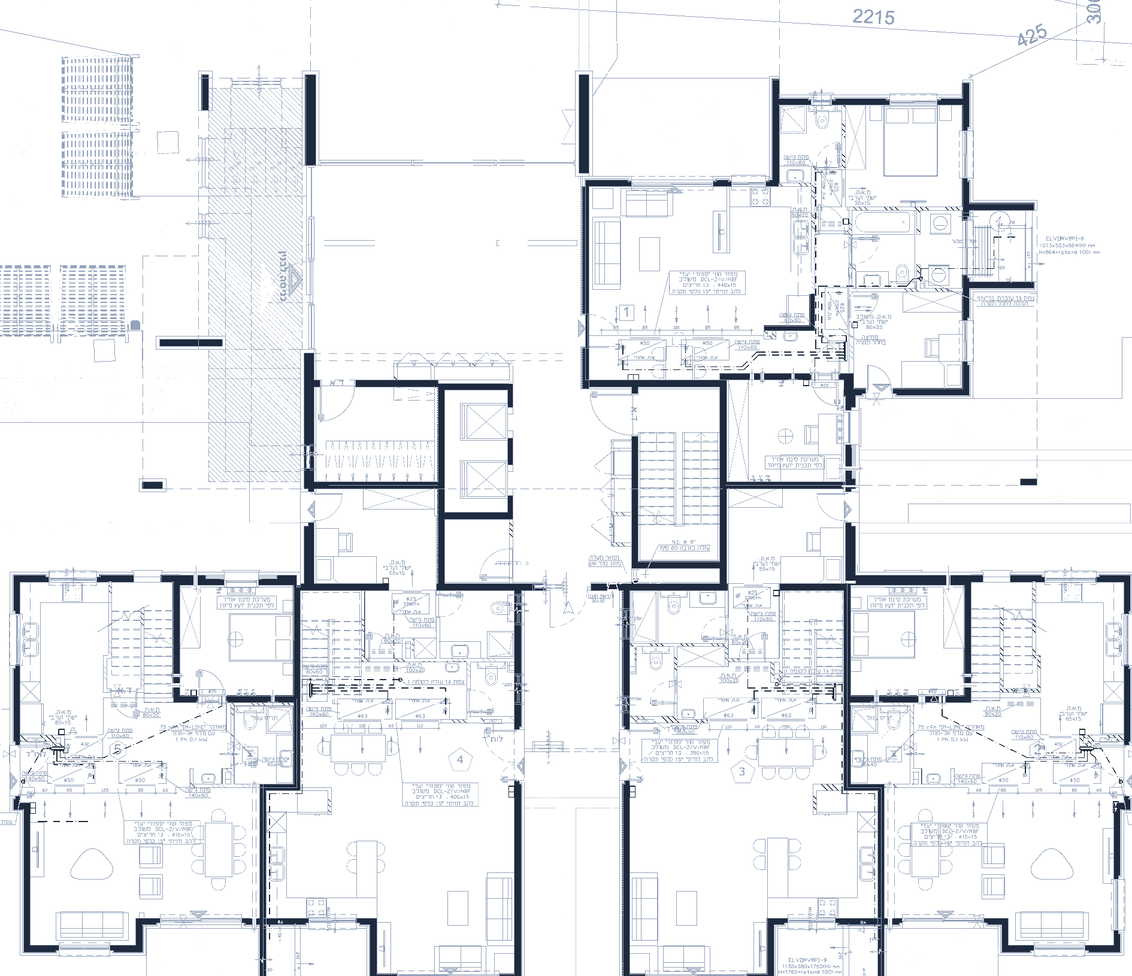
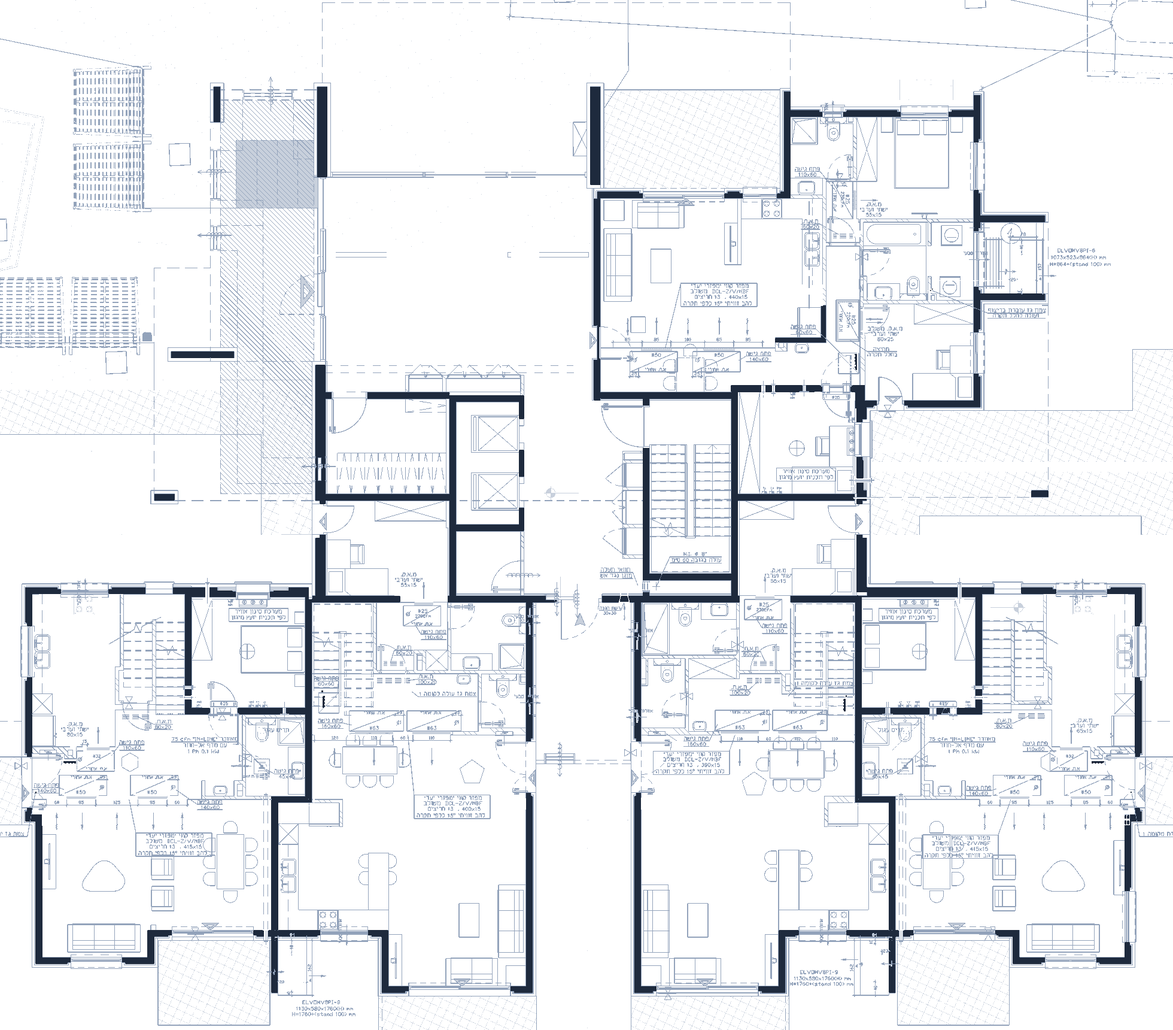
Netiv building view: Building 1 mirrored, its public building, floors 1 and 10 traced
Owner, 2026-11-17: "perfect the building view based on this". Read off both
buildings' AC-engineer sheets: Building 1 is Building 2 mirrored on every
floor (each B1 sheet, flipped, lies on B2's with one offset), flat numbers
included, and its unit 1 on the ground is the public building, not a flat.

- NETIV_PLAN_B1: the traced frame mirrored, then turned; drawing.mirror;
  a plan per tower in the side-by-side view and a clip id per tower.
- Building 1's ground has its own picture with the public building drawn
  off its own sheet.
- Floor 1 (the duplexes' upper storeys) and floor 10 (35 the whole top,
  36 the bottom) are traced off their sheets; nothing is estimated now.
- Every picture regenerated without lettering, on one wider frame, so
  nothing reads upside down or backwards after the turn.

Claude-Session: https://claude.ai/code/session_01VowSFszFfkyoyykZYXnGyw

diff --git a/src/components/building/netivPlan.ts b/src/components/building/netivPlan.ts
@@ -1,144 +1,172 @@
 /**
- * NETIV (Or Amiad), traced off the AC engineer's sheets for BUILDING 2 (A.F. Air Conditioning, "בניין 2", the Drive
- * folder the owner handed over 2026-11-08: Floor 0 · Floor 2-7 · Floor 7 · Floor 8). The same method as Wolfson's:
- * every outline read off the sheet on a 50-point grid and checked by laying it back over the drawing (the cyan walls).
+ * NETIV (Or Amiad), traced off the AC engineer's sheets (A.F. Air Conditioning; the Drive folder "PDF מקבלן",
+ * "בנין 1" and "בנין 2": Floor 0 · 1 · 2-7 · 7 · 8 · 9). The same method as Wolfson's: every outline read off the
+ * sheet on a measured grid and checked by laying it back over the drawing.
  *
- * Units: half a sheet point on the typical floor's sheet (the ground sheet is drawn shifted and lands on it by its
- * lifts). The architect's floors run one under the app's above the ground: their "Floor 2-7" is the app's 3–8, their
- * 7 the app's 8 (apartments 28–31), their 8 the app's 9 (32–34).
+ * Units: one unit is two sheet points on the typical floor's sheet (the ground sheet is drawn shifted and lands on
+ * it by its lifts). The architect's floors run one under the app's above the ground: their "Floor 2-7" is the app's
+ * 3–8, their 7 the app's 8 (apartments 28–31), their 8 the app's 9 (32–34), their 9 the app's 10 (35 · 36).
  *
- * Floor by floor (the app's numbering):
+ * Floor by floor (the app's numbering), as Building 2's sheets draw it:
  *   0  apartment 1 (top right) · the entrance lobby (top left) · the four garden duplexes 5 · 4 | walk | 3 · 2 below
- *   1  apartments 6 · 7 and the duplexes' upper storeys — NO PLAN YET: drawn from the floors round it (estimated)
+ *   1  apartments 6 · 7 on top and the duplexes' upper storeys below (traced 2026-11-17 off "Floor 1")
  *   3–8  four flats round the core, numbered clockwise from the top left (8 9 10 11 · 12 13 14 15 · …)
  *   9  32 (top left) · 33 (top right) · 34 the whole bottom with its open roof terrace
- *   10 35 · 36 — NO PLAN YET: drawn as the top two flats (estimated)
- * Building 1 is the same building as Building 2 (owner, 2026-11-08: "Building one and two plans are exactly the same"), so one plan draws both.
+ *   10 35 the whole top (bedrooms left and right of the living room) · 36 the bottom (traced 2026-11-17 off "Floor 9")
+ *
+ * THE TWO BUILDINGS ARE MIRROR IMAGES (found 2026-11-17, when the owner asked which building has something else
+ * where the app drew a flat): every sheet of Building 1, flipped left to right, lies on Building 2's sheet with the
+ * same offset on all five floors (x₁ = 3266 − x₂ in sheet points), flat numbers and all — 13 is top left in
+ * Building 1 where 12 is in Building 2. One difference: Building 1's unit 1, on the ground, is not a flat but the
+ * PUBLIC BUILDING (מבנה ציבור, about 100 m², its own fan-coil), on the footprint apartment 1 has in Building 2.
+ * So everything is traced once, in Building 2's frame, and Building 1's plan is that, mirrored.
+ *
+ * TURNED 180° ON SCREEN (owner, 2026-11-17: "flip the buildings 180 degrees so that apartment 13 and 12 go on the
+ * bottom and apartment 14 and 15 go on the top", and his sketch of the ground floor: apartment 1 bottom left, the
+ * duplexes 2 · 3 · 4 · 5 along the top, the street below). The sheets' pictures are mirrored and turned with the
+ * outlines (`drawing.mirror`, `drawing.rotate`), so the walls still lie on them. The pictures carry no lettering
+ * (it was taken out of the sheets), so nothing reads upside down or backwards.
  */
 import type { Apartment } from '../../types';
 import type { BuildingPlan, CardSpot, FloorSpec, Pt } from './buildingPlan';
 
+type Rect = [number, number, number, number];
+
+// ── as traced, in Building 2's frame ────────────────────────────────────────────────────────────────────────
 const TL: Pt[] = [[500, 268], [600, 268], [600, 356], [827, 356], [827, 525], [705, 525], [705, 615], [595, 615], [595, 490], [458, 490], [458, 425], [500, 425]];
 const TR: Pt[] = [[827, 356], [1000, 356], [1000, 270], [1140, 270], [1140, 395], [1185, 395], [1185, 440], [1140, 440], [1140, 535], [1050, 535], [1050, 615], [945, 615], [945, 525], [827, 525]];
 const BL: Pt[] = [[455, 695], [595, 695], [595, 615], [705, 615], [705, 695], [817, 695], [817, 880], [650, 880], [650, 995], [455, 995], [455, 845], [435, 845], [435, 775], [455, 775]];
 const BR: Pt[] = [[817, 695], [945, 695], [945, 615], [1050, 615], [1050, 695], [1180, 695], [1180, 775], [1200, 775], [1200, 845], [1180, 845], [1180, 995], [985, 995], [985, 880], [817, 880]];
 const P34: Pt[] = [[455, 695], [595, 695], [595, 615], [705, 615], [705, 695], [945, 695], [945, 615], [1050, 615], [1050, 880], [650, 880], [650, 995], [455, 995], [455, 845], [435, 845], [435, 775], [455, 775]];
+/** The app's floor 10: 35 runs along the whole top, with a bedroom wing each side of the core's top. */
+const P35: Pt[] = [[500, 268], [600, 268], [600, 358], [1053, 358], [1053, 697], [945, 697], [945, 525], [705, 525], [705, 615], [595, 615], [595, 490], [458, 490], [458, 425], [500, 425]];
+const P36: Pt[] = [[455, 695], [595, 695], [595, 615], [705, 615], [705, 695], [950, 695], [950, 880], [650, 880], [650, 995], [455, 995], [455, 845], [435, 845], [435, 775], [455, 775]];
 const G1: Pt[] = [[820, 340], [970, 340], [970, 270], [1135, 270], [1135, 370], [1190, 370], [1190, 455], [1135, 455], [1135, 520], [1045, 520], [1045, 600], [930, 600], [930, 505], [820, 505]];
+/** Building 1's unit 1 — the public building, off Building 1's own ground sheet (flipped into this frame). */
+const PUB: Pt[] = [[817, 338], [968, 338], [968, 253], [1147, 253], [1147, 520], [1043, 520], [1043, 600], [930, 600], [930, 507], [817, 507]];
 const D5: Pt[] = [[342, 670], [575, 670], [575, 950], [342, 950]];
 const D4: Pt[] = [[575, 655], [765, 655], [765, 990], [575, 990]];
 const D3: Pt[] = [[850, 655], [1045, 655], [1045, 990], [850, 990]];
 const D2: Pt[] = [[1045, 670], [1265, 670], [1265, 950], [1045, 950]];
+/** The duplexes' upper storeys, off the "Floor 1" sheet: wider than the ground ones, with a shaft between 4 and 3. */
+const U5: Pt[] = [[351, 689], [588, 689], [588, 979], [459, 979], [459, 1002], [360, 1002], [360, 880], [351, 880]];
+const U4: Pt[] = [[588, 696], [817, 696], [817, 772], [772, 772], [772, 979], [588, 979]];
+const U3: Pt[] = [[820, 696], [1049, 696], [1049, 979], [865, 979], [865, 772], [820, 772]];
+const U2: Pt[] = [[1049, 689], [1284, 689], [1284, 880], [1275, 880], [1275, 1002], [1176, 1002], [1176, 979], [1049, 979]];
 
 const SHAPES: Record<string, Pt[]> = {
   TL, TR, BL, BR,                      // the typical floor
   TL8: TL, TR8: TR, P34,               // the app's floor 9
-  TL10: TL, TR10: TR,                  // the app's floor 10 (estimated)
-  G1, D5, D4, D3, D2,                  // the ground
-  F6: TL, F7: TR, U5: D5, U4: D4, U3: D3, U2: D2, // the app's floor 1 (estimated)
+  P35, P36,                            // the app's floor 10
+  G1, PUB, D5, D4, D3, D2,             // the ground (G1 in Building 2, PUB in Building 1)
+  F6: TL, F7: TR, U5, U4, U3, U2,      // the app's floor 1
 };
 const SUN_TL: Pt[][] = [[[600, 200], [827, 200], [827, 356], [600, 356]], [[455, 495], [595, 495], [595, 600], [455, 600]]];
 const SUN_TR: Pt[][] = [[[827, 200], [995, 200], [995, 356], [827, 356]], [[1050, 535], [1145, 535], [1145, 600], [1050, 600]]];
 const TERRACES: Record<string, Pt[][]> = {
-  TL: SUN_TL, TR: SUN_TR, TL10: SUN_TL, TR10: SUN_TR, F6: SUN_TL, F7: SUN_TR,
+  TL: SUN_TL, TR: SUN_TR, F6: SUN_TL, F7: SUN_TR,
   BL: [[[650, 880], [817, 880], [817, 1002], [650, 1002]]],
   BR: [[[817, 880], [985, 880], [985, 1002], [817, 1002]]],
-  // the top floor's sun terraces are shorter (its sheet), the side ones the same
+  // the top floors' sun terraces are shorter (their sheets), the side ones the same
   TL8: [[[600, 270], [827, 270], [827, 356], [600, 356]], SUN_TL[1]],
   TR8: [[[827, 270], [995, 270], [995, 356], [827, 356]], SUN_TR[1]],
   P34: [[[1050, 695], [1198, 695], [1198, 995], [650, 995], [650, 880], [1050, 880]]],
+  P35: [[[1053, 272], [1140, 272], [1140, 395], [1185, 395], [1185, 440], [1140, 440], [1140, 535], [1053, 535]], [[600, 305], [1053, 305], [1053, 358], [600, 358]], SUN_TL[1]],
+  P36: [[[950, 697], [1050, 697], [1050, 880], [950, 880]]],
+  U4: [[[650, 979], [777, 979], [777, 1030], [650, 1030]]],
+  U3: [[[860, 979], [988, 979], [988, 1030], [860, 1030]]],
 };
 const LABEL: Record<string, Pt> = {
-  TL: [715, 440], TR: [915, 440], BL: [730, 795], BR: [905, 795], P34: [850, 790],
-  G1: [910, 430], D5: [458, 810], D4: [670, 820], D3: [948, 820], D2: [1155, 810],
+  TL: [715, 440], TR: [915, 440], BL: [730, 795], BR: [905, 795], P34: [850, 790], P35: [830, 445], P36: [800, 790],
+  G1: [910, 430], PUB: [985, 420], D5: [458, 810], D4: [670, 820], D3: [948, 820], D2: [1155, 810],
+  U5: [470, 840], U4: [680, 850], U3: [957, 850], U2: [1165, 840],
 };
-for (const [k, s] of [['TL8', 'TL'], ['TR8', 'TR'], ['TL10', 'TL'], ['TR10', 'TR'], ['F6', 'TL'], ['F7', 'TR'],
-  ['U5', 'D5'], ['U4', 'D4'], ['U3', 'D3'], ['U2', 'D2']] as const) LABEL[k] = LABEL[s];
+for (const [k, s] of [['TL8', 'TL'], ['TR8', 'TR'], ['F6', 'TL'], ['F7', 'TR']] as const) LABEL[k] = LABEL[s];
 
 const SPOT: Record<string, CardSpot> = {
-  TL: 'tl', TR: 'tr', BR: 'br', BL: 'bl', TL8: 'tl', TR8: 'tr', P34: 'bl', TL10: 'tl', TR10: 'tr',
-  G1: 'tr', D5: 'bl', D4: 'ml', D3: 'mr', D2: 'br', F6: 'tl', F7: 'tr', U5: 'bl', U4: 'ml', U3: 'mr', U2: 'br',
+  TL: 'tl', TR: 'tr', BR: 'br', BL: 'bl', TL8: 'tl', TR8: 'tr', P34: 'bl', P35: 'tr', P36: 'bl',
+  G1: 'tr', PUB: 'tr', D5: 'bl', D4: 'ml', D3: 'mr', D2: 'br', F6: 'tl', F7: 'tr', U5: 'bl', U4: 'ml', U3: 'mr', U2: 'br',
 };
 
 const CORE: Pt[] = [[705, 525], [945, 525], [945, 695], [705, 695]];
 const CORE_G: Pt[] = [[585, 252], [820, 252], [820, 505], [930, 505], [930, 655], [585, 655]];
-const STAIRS: [number, number, number, number][] = [[862, 555, 55, 110]];
-const LIFTS: [number, number, number, number][] = [[712, 530, 36, 36], [712, 570, 36, 36]];
-const STAIRS_G: [number, number, number, number][] = [[842, 512, 86, 138]];
-const LIFTS_G: [number, number, number, number][] = [[697, 512, 34, 48], [697, 565, 34, 48]];
-const BOX = { x: 330, y: 190, w: 945, h: 815 };
+const STAIRS: Rect[] = [[862, 555, 55, 110]];
+const LIFTS: Rect[] = [[712, 530, 36, 36], [712, 570, 36, 36]];
+const STAIRS_G: Rect[] = [[842, 512, 86, 138]];
+const LIFTS_G: Rect[] = [[697, 512, 34, 48], [697, 565, 34, 48]];
+/** Wide enough for floor 1, whose duplexes reach further out and down than any other floor. */
+const BOX = { x: 320, y: 180, w: 980, h: 860 };
 const FLOOR_NO: Pt = [825, 612];
 const FLOOR_NO_G: Pt = [702, 380];
 
-/**
- * TURNED 180° ON SCREEN (owner, 2026-11-17: "flip the buildings 180 degrees so that apartment 13 and 12 go on the
- * bottom and apartment 14 and 15 go on the top", and his sketch of the ground floor: apartment 1 bottom left, the
- * garden duplexes 2 · 3 · 4 · 5 along the top, the street below). Everything above stays as traced off the sheets;
- * this turns every outline, label, core and card corner about the drawing's centre, and the sheets' own pictures
- * are turned with them (`drawing.rotate`), so the walls still lie on the outlines.
- */
-const CX = BOX.x + BOX.w / 2, CY = BOX.y + BOX.h / 2;
-const turn = ([x, y]: Pt): Pt => [2 * CX - x, 2 * CY - y];
-const turnAll = (pts: Pt[]): Pt[] => pts.map(turn);
-const turnRect = ([x, y, w, h]: [number, number, number, number]): [number, number, number, number] =>
-  [2 * CX - x - w, 2 * CY - y - h, w, h];
-const mapValues = <T, U>(o: Record<string, T>, f: (v: T) => U): Record<string, U> =>
-  Object.fromEntries(Object.entries(o).map(([k, v]) => [k, f(v)]));
-const OPPOSITE: Record<CardSpot, CardSpot> = { tl: 'br', tr: 'bl', bl: 'tr', br: 'tl', ml: 'mr', mr: 'ml' };
-
-const T_SHAPES = mapValues(SHAPES, turnAll);
-const T_TERRACES = mapValues(TERRACES, list => list.map(turnAll));
-const T_LABEL = mapValues(LABEL, turn);
-const T_SPOT = mapValues(SPOT, s => OPPOSITE[s]);
-const T_CORE = turnAll(CORE), T_CORE_G = turnAll(CORE_G);
-const T_STAIRS = STAIRS.map(turnRect), T_LIFTS = LIFTS.map(turnRect);
-const T_STAIRS_G = STAIRS_G.map(turnRect), T_LIFTS_G = LIFTS_G.map(turnRect);
-const T_FLOOR_NO = turn(FLOOR_NO), T_FLOOR_NO_G = turn(FLOOR_NO_G);
-const sheet = (src: string) => ({ src, box: BOX, clip: true, rotate: true });
-
-/** The typical floor's four flats, clockwise from the top left. */
+/** The typical floor's four flats, clockwise from the top left (Building 2's frame). */
 const RING = ['TL', 'TR', 'BR', 'BL'] as const;
 
 function num(apt: Apartment): number { return Number((apt.apartmentNumber ?? '').trim()); }
 
-export const NETIV_PLAN: BuildingPlan = {
-  id: 'netiv',
-  box: BOX,
-  shapes: T_SHAPES,
-  terraces: T_TERRACES,
-  labelAt: T_LABEL,
-  cardSpot: T_SPOT,
-  /** By the apartment's NUMBER, as the sheets number them — whatever row or column the board gives it. */
-  shapesOf(apt, rowFloor) {
-    const n = num(apt);
-    if (n === 1) return ['G1'];
-    if (n >= 2 && n <= 5) return [rowFloor < apt.floor ? `D${n}` : `U${n}`];
-    if (n === 6) return ['F6'];
-    if (n === 7) return ['F7'];
-    if (n >= 8 && n <= 31) return [RING[(n - 8) % 4]];
-    if (n === 32) return ['TL8'];
-    if (n === 33) return ['TR8'];
-    if (n === 34) return ['P34'];
-    if (n === 35) return ['TL10'];
-    if (n === 36) return ['TR10'];
-    return [RING[Math.max(0, Math.min(3, (apt.colPosition ?? 1) - 1))]];
-  },
-  /** A garden duplex stands on the ground AND the storey above: its record is on the upper one, it is drawn on both. */
-  alsoOn(apt) {
-    const n = num(apt);
-    return n >= 2 && n <= 5 ? [apt.floor - 1] : [];
-  },
-  floorOf(row): FloorSpec {
-    const has = (re: RegExp) => row.keys.some(k => re.test(k));
-    const base = { core: T_CORE, stairs: T_STAIRS, lifts: T_LIFTS, floorNoAt: T_FLOOR_NO };
-    if (has(/^(G1|D\d)$/) && !has(/^(F\d|U\d)$/)) {
-      return { core: T_CORE_G, stairs: T_STAIRS_G, lifts: T_LIFTS_G, floorNoAt: T_FLOOR_NO_G,
-        slab: ['G1', 'D5', 'D4', 'D3', 'D2'], drawing: sheet('/building/netiv-ground.png') };
-    }
-    if (has(/^(F\d|U\d)$/)) return { ...base, slab: ['F6', 'F7', 'U5', 'U4', 'U3', 'U2'], estimated: true };
-    if (has(/^(TL8|TR8|P34)$/)) return { ...base, slab: ['TL8', 'TR8', 'P34'], drawing: sheet('/building/netiv-f8.png') };
-    if (has(/^(TL10|TR10)$/)) return { ...base, slab: ['TL10', 'TR10'], estimated: true };
-    // the architect's floor 7 (the app's 8, flats 28–31) has its own sheet; 2–7 share the typical one
-    const src = row.nums.some(n => n >= 28 && n <= 31) ? '/building/netiv-f7.png' : '/building/netiv-typical.png';
-    return { ...base, slab: ['TL', 'TR', 'BR', 'BL'], drawing: sheet(src) };
-  },
-};
+const mapValues = <T, U>(o: Record<string, T>, f: (v: T) => U): Record<string, U> =>
+  Object.fromEntries(Object.entries(o).map(([k, v]) => [k, f(v)]));
+const TURNED: Record<CardSpot, CardSpot> = { tl: 'br', tr: 'bl', bl: 'tr', br: 'tl', ml: 'mr', mr: 'ml' };
+const MIRRORED: Record<CardSpot, CardSpot> = { tl: 'tr', tr: 'tl', bl: 'br', br: 'bl', ml: 'mr', mr: 'ml' };
+
+/**
+ * One building's plan: the traced frame, mirrored for Building 1, then turned half round for the screen.
+ * A mirror and a half turn together are a top-to-bottom flip, which is what Building 1 comes to.
+ */
+function netivPlan(mirror: boolean): BuildingPlan {
+  const CX = BOX.x + BOX.w / 2, CY = BOX.y + BOX.h / 2;
+  const at = ([x, y]: Pt): Pt => [mirror ? x : 2 * CX - x, 2 * CY - y];
+  const all = (pts: Pt[]): Pt[] => pts.map(at);
+  const rect = ([x, y, w, h]: Rect): Rect => [mirror ? x : 2 * CX - x - w, 2 * CY - y - h, w, h];
+  const spot = (s: CardSpot): CardSpot => TURNED[mirror ? MIRRORED[s] : s];
+  const sheet = (name: string) => ({ src: `/building/${name}.png`, box: BOX, clip: true, rotate: true, mirror });
+  const upper = { core: all(CORE), stairs: STAIRS.map(rect), lifts: LIFTS.map(rect), floorNoAt: at(FLOOR_NO) };
+  const unit1 = mirror ? 'PUB' : 'G1';
+
+  return {
+    id: 'netiv',
+    box: BOX,
+    shapes: mapValues(SHAPES, all),
+    terraces: mapValues(TERRACES, list => list.map(all)),
+    labelAt: mapValues(LABEL, at),
+    cardSpot: mapValues(SPOT, spot),
+    /** By the apartment's NUMBER, as the sheets number them — whatever row or column the board gives it. */
+    shapesOf(apt, rowFloor) {
+      const n = num(apt);
+      if (n === 1) return [unit1];
+      if (n >= 2 && n <= 5) return [rowFloor < apt.floor ? `D${n}` : `U${n}`];
+      if (n === 6) return ['F6'];
+      if (n === 7) return ['F7'];
+      if (n >= 8 && n <= 31) return [RING[(n - 8) % 4]];
+      if (n === 32) return ['TL8'];
+      if (n === 33) return ['TR8'];
+      if (n === 34) return ['P34'];
+      if (n === 35) return ['P35'];
+      if (n === 36) return ['P36'];
+      return [RING[Math.max(0, Math.min(3, (apt.colPosition ?? 1) - 1))]];
+    },
+    /** A garden duplex stands on the ground AND the storey above: its record is on the upper one, it is drawn on both. */
+    alsoOn(apt) {
+      const n = num(apt);
+      return n >= 2 && n <= 5 ? [apt.floor - 1] : [];
+    },
+    floorOf(row): FloorSpec {
+      const has = (re: RegExp) => row.keys.some(k => re.test(k));
+      if (has(/^(G1|PUB|D\d)$/) && !has(/^(F\d|U\d)$/)) {
+        return { core: all(CORE_G), stairs: STAIRS_G.map(rect), lifts: LIFTS_G.map(rect), floorNoAt: at(FLOOR_NO_G),
+          slab: [unit1, 'D5', 'D4', 'D3', 'D2'], drawing: sheet(mirror ? 'netiv-b1-ground' : 'netiv-ground') };
+      }
+      if (has(/^(F\d|U\d)$/)) return { ...upper, slab: ['F6', 'F7', 'U5', 'U4', 'U3', 'U2'], drawing: sheet('netiv-f1') };
+      if (has(/^(TL8|TR8|P34)$/)) return { ...upper, slab: ['TL8', 'TR8', 'P34'], drawing: sheet('netiv-f8') };
+      if (has(/^(P35|P36)$/)) return { ...upper, slab: ['P35', 'P36'], drawing: sheet('netiv-f9') };
+      // Building 2's top typical floor (the app's 8, flats 28–31) has its own sheet; Building 1 has none, its 3–8 share one
+      const own = !mirror && row.nums.some(n => n >= 28 && n <= 31);
+      return { ...upper, slab: ['TL', 'TR', 'BR', 'BL'], drawing: sheet(own ? 'netiv-f7' : 'netiv-typical') };
+    },
+  };
+}
+
+/** Building 2, as its sheets draw it. */
+export const NETIV_PLAN: BuildingPlan = netivPlan(false);
+/** Building 1: Building 2 mirrored, with the public building where apartment 1 is. */
+export const NETIV_PLAN_B1: BuildingPlan = netivPlan(true);

diff --git a/src/pages/ProjectDiagramPage.tsx b/src/pages/ProjectDiagramPage.tsx
@@ -1,7 +1,7 @@
 import React, { useState, useCallback, useMemo, useEffect } from 'react';
 import { StandardPlanButton } from '../components/building/StandardPlan';
 import { WOLFSON_PLAN, type BuildingPlan } from '../components/building/buildingPlan';
-import { NETIV_PLAN } from '../components/building/netivPlan';
+import { NETIV_PLAN, NETIV_PLAN_B1 } from '../components/building/netivPlan';
 import { haptic } from '../data/haptics';
 import { Search, X, CheckSquare, Printer, ChevronDown, SlidersHorizontal } from 'lucide-react';
 import { Navigate, useNavigate } from 'react-router-dom';
@@ -23,7 +23,9 @@ const WOLFSON_INTERIOR = '/building/wolfson-typical.png';
  */
 function planFor(projectId: string, buildingId: string): BuildingPlan | null {
   if (/^A\d/.test(buildingId)) return WOLFSON_PLAN;
-  if (projectId === 'netiv' && /^B[12]$/.test(buildingId)) return NETIV_PLAN;
+  // Netiv's two buildings are mirror images (the AC engineer's sheets, 2026-11-17): each has its own plan.
+  if (projectId === 'netiv' && buildingId === 'B1') return NETIV_PLAN_B1;
+  if (projectId === 'netiv' && buildingId === 'B2') return NETIV_PLAN;
   return null;
 }
 import { buildFloorRows, rowLabelText } from '../data/floorRows';
@@ -277,7 +279,8 @@ export function ProjectDiagramPage() {
   /** The switch shows on All too (owner, 2026-11-03: he looked for it there twice); Building on All opens the first building. */
   const firstWolfson = buildings.find(b => !!planFor(currentProjectId, b.id))?.id;
   /** The plan the building view draws with — Wolfson's or Netiv's. */
-  const bvPlan = (firstWolfson ? planFor(currentProjectId, firstWolfson) : null) ?? WOLFSON_PLAN;
+  const bvPlan = (canBuildingView ? planFor(currentProjectId, bvBuilding) : null)
+    ?? (firstWolfson ? planFor(currentProjectId, firstWolfson) : null) ?? WOLFSON_PLAN;
   const isWolfsonPlan = bvPlan.id === 'wolfson';
   const showSwitch = !isNarrow && !!firstWolfson;
   const showNarrowSwitch = isNarrow && canBuildingView;
@@ -295,7 +298,7 @@ export function ProjectDiagramPage() {
   const trioBuildings = useMemo(() => (showTrio
     ? buildings.filter(b => !!planFor(currentProjectId, b.id))
       // Netiv: Building 2 on the left, Building 1 on the right (owner, 2026-11-09)
-      .sort((a, b) => (currentProjectId === 'netiv' ? (b.id === 'B2' ? 1 : 0) - (a.id === 'B2' ? 1 : 0) : 0)).map(b => ({ id: b.id, title: buildingShort(b.id), apartments: apartments.filter(a => a.buildingId === b.id), floorLabels: floorLabelsOf(b.id) }))
+      .sort((a, b) => (currentProjectId === 'netiv' ? (b.id === 'B2' ? 1 : 0) - (a.id === 'B2' ? 1 : 0) : 0)).map(b => ({ id: b.id, title: buildingShort(b.id), apartments: apartments.filter(a => a.buildingId === b.id), floorLabels: floorLabelsOf(b.id), plan: planFor(currentProjectId, b.id) ?? undefined }))
     : []), [showTrio, buildings, apartments, floorLabelsOf]);
   const lookValue = useMemo(() => ({
     big: !isNarrow && selectedBuilding !== 'all',

diff --git a/src/components/building/BuildingView.tsx b/src/components/building/BuildingView.tsx
@@ -130,7 +130,10 @@ function planRow(row: FloorRow) {
 }
 /** A sheet drawn turned half round about its own centre (Netiv, owner 2026-11-17), else as it is. */
 function turnOf(d: NonNullable<FloorSpec['drawing']>): string | undefined {
-  return d.rotate ? `rotate(180 ${d.box.x + d.box.w / 2} ${d.box.y + d.box.h / 2})` : undefined;
+  const cx = d.box.x + d.box.w / 2, cy = d.box.y + d.box.h / 2;
+  // Mirrored AND turned comes to a top-to-bottom flip (Netiv's Building 1); mirrored alone, a left-to-right one.
+  if (d.mirror) return d.rotate ? `translate(0 ${2 * cy}) scale(1 -1)` : `translate(${2 * cx} 0) scale(-1 1)`;
+  return d.rotate ? `rotate(180 ${cx} ${cy})` : undefined;
 }
 /** Every outline of the floor (rooms, then their terraces) and its core, as one path. */
 function slabPath(plan: BuildingPlan, spec: FloorSpec): string {
@@ -494,9 +497,9 @@ export default function BuildingView({ apartments, stages, onOpen, words, initia
                 )}
                 {spec!.drawing?.clip && (
                   <g className="bv-interior" pointerEvents="none">
-                    <clipPath id={`bv-clip-${plan.id}-${row.floor}`}><path d={spec!.slab.map(k => pathOf(plan.shapes[k])).join(' ') + ' ' + pathOf(spec!.core)} /></clipPath>
+                    <clipPath id={`bv-clip-${plan.id}-${tower}-${row.floor}`}><path d={spec!.slab.map(k => pathOf(plan.shapes[k])).join(' ') + ' ' + pathOf(spec!.core)} /></clipPath>
                     {/* The clip sits on a wrapper: on the picture itself a turn (Netiv, 2026-11-17) would turn the clip too. */}
-                    <g clipPath={`url(#bv-clip-${plan.id}-${row.floor})`}>
+                    <g clipPath={`url(#bv-clip-${plan.id}-${tower}-${row.floor})`}>
                       <image href={spec!.drawing.src} x={spec!.drawing.box.x} y={spec!.drawing.box.y} width={spec!.drawing.box.w} height={spec!.drawing.box.h}
                         preserveAspectRatio="none" transform={turnOf(spec!.drawing)} />
                     </g>

diff --git a/src/components/building/BuildingTrio.tsx b/src/components/building/BuildingTrio.tsx
@@ -11,7 +11,8 @@ import BuildingView, { makeFloorBus, shortFloor, slotName, slotsOn, SlotChip, ty
 import { STRIP, CORES_X, zoneFor, type LowerLevel } from './wolfsonPlan';
 import type { BuildingPlan } from './buildingPlan';
 
-export interface TrioBuilding { id: string; title: string; apartments: Apartment[]; floorLabels?: Record<number, string> }
+/** `plan`: this building's own plan when it differs from its neighbours' (Netiv's Building 1 is Building 2 mirrored). */
+export interface TrioBuilding { id: string; title: string; apartments: Apartment[]; floorLabels?: Record<number, string>; plan?: BuildingPlan }
 
 export default function BuildingTrio({ buildings, stages, onOpen, words, interiorSrc, lower = [], customButtons, plan, planSlot }: {
   buildings: TrioBuilding[]; stages: Stage[]; onOpen: (apt: Apartment) => void;
@@ -61,7 +62,7 @@ export default function BuildingTrio({ buildings, stages, onOpen, words, interio
         {buildings.map((b, i) => (
           <BuildingView key={b.id} compact title={b.title} bus={bus} apartments={b.apartments} stages={stages}
             onOpen={onOpen} words={words} floorLabels={b.floorLabels} interiorSrc={interiorSrc}
-            lower={lower} tower={i} hideLower customButtons={customButtons} plan={plan} planSlot={planSlot ? f => planSlot(b, f) : undefined} />
+            lower={lower} tower={i} hideLower customButtons={customButtons} plan={b.plan ?? plan} planSlot={planSlot ? f => planSlot(b, f) : undefined} />
         ))}
       </div>
       <nav className="bv-rail" aria-label={words?.floor ?? 'Floor'}>

diff --git a/src/components/building/buildingPlan.ts b/src/components/building/buildingPlan.ts
@@ -33,7 +33,7 @@ export interface FloorSpec {
   /** Every shape of the floor's slab, sold or not (so an empty flat still has its outline). */
   slab: string[];
   /** The plan's own drawing (walls, doors, furniture) laid on the floor; `clip` cuts it to the slab. */
-  drawing?: { src: string; box: Box; clip: boolean; rotate?: boolean };
+  drawing?: { src: string; box: Box; clip: boolean; rotate?: boolean; mirror?: boolean };
   /** Where the floor's number stands. */
   floorNoAt: Pt;
   /** Drawn from the floors round it because no plan of this floor has been handed in yet. */

diff --git a/docs/PRACTICE-CARRYOVER.md b/docs/PRACTICE-CARRYOVER.md
@@ -73,6 +73,7 @@ change after that commit belongs in this list.
 | 2026-11-17 | Reports: new subject "Who worked where" (one row per worker per apartment, Started / Finished / Status / days, from his tasks, site visits, stages done in his name and the job's Contractor); job fields Contractor, Worked on by (ever), Work started, Work finished | `reportModel.ts` (`WORK`, `allWorkSpans`, `jobFields`) | ″ |
 | 2026-11-17 | Reports: every item of the apartment window is a column — per stage its status (as the window words it, "Done (Sent)", "Waiting"), done by, done on; per custom button its answer (both from the workspace's own lists, so new ones appear by themselves: `ReportSubject.more` + `fieldsOf`); plus Apartment number, Family name, Standard / Upgraded, AC company, Waiting for inspection, Working here now, Inspections done, Open problems; the AI is told about them | `reportModel.ts` (`jobMore`, `fieldsOf`), `reportAi.ts`, `ReportsPage.tsx`, `api/geocode.js`, `CLAUDE.md` | ″ |
 | 2026-11-17 | Netiv building view turned 180°: 12·13 at the bottom, 14·15 on top; ground: 1 bottom left, 2·3·4·5 along the top (owner's sketch); the sheets' pictures turn with the outlines (`drawing.rotate`, clip on a wrapper) | `netivPlan.ts`, `buildingPlan.ts`, `BuildingView.tsx` | ″ |
+| 2026-11-17 | Netiv building view redone off both buildings' sheets: Building 1 is Building 2 MIRRORED (own plan `NETIV_PLAN_B1`, `drawing.mirror`, a plan per tower in the trio, a clip id per tower); Building 1's unit 1 is the public building (`PUB`, own ground picture `netiv-b1-ground.png`); floor 1 traced (U2–U5, picture `netiv-f1.png`) and floor 10 traced (35 = the whole top, 36 = the bottom, `netiv-f9.png`) — no floor is "estimated" any more; all pictures regenerated lettering-free on one wider frame (320,180,980,860) | `netivPlan.ts`, `buildingPlan.ts`, `BuildingView.tsx`, `BuildingTrio.tsx`, `ProjectDiagramPage.tsx`, `public/building/netiv-*.png` | ″ |
 
 ## Already brought across
 (nothing yet)
